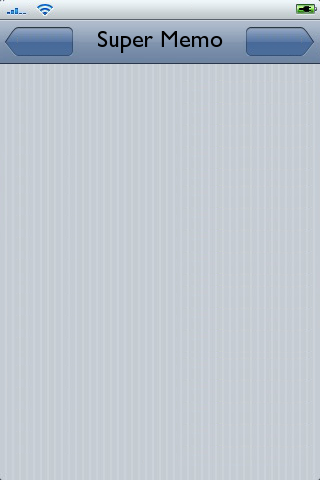
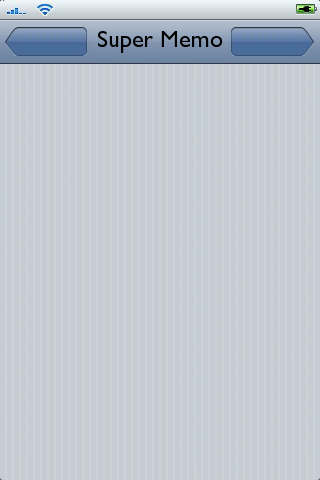
more mobile displays

Changed region(s): [[0.7188, 0.0312, 0.7812, 0.125], [0.2188, 0.0312, 0.2812, 0.125]]

diff --git a/public/stylesheets/base.css b/public/stylesheets/base.css
@@ -1,27 +1,27 @@
 /* === FLASH MESSAGES === */
 div#flash-notice {
-	
+position:absolute;	
 }
 
 div#flash-warning {
-	
+position:absolute;
 }
 
 div#flash-error {
-	
+position:absolute;
 }
 
 /* === ERROR MESSAGES === */
 div#errorExplanation {
-	
+
 }
 
 div#errorExplanation h2 {
-	
+
 }
 
 div#errorExplanation p {
-	
+
 }
 
 div#errorExplanation ul {
@@ -63,4 +63,6 @@ div.correction p.header {font-size:14px;padding-left:5px; padding-top:70px;}
 div.correction p.question {font-size:16px;padding-left:10px;}
 div.correction p.options {padding-left:12px; padding-top:58px;}
 div.correction .next {background:transparent none repeat scroll 0 0; border:medium none; color:#EEEEEE; font-size:18px; font-weight:bold; left:555px; position:absolute; top:44px;}
+div.correction .signup {background:transparent none repeat scroll 0 0; border:medium none; color:#EEEEEE; font-size:18px; font-weight:bold; left:540px; position:absolute; top:44px;}
+div.correction .login {background:transparent none repeat scroll 0 0; border:medium none; color:#EEEEEE; font-size:18px; font-weight:bold; left:546px; position:absolute; top:44px;}
 div.correction .logout { background:transparent none repeat scroll 0 0; border:medium none; color:#EEEEEE; font-size:18px; font-weight:bold; left:330px; position:absolute; text-decoration:none; top:44px;}

diff --git a/config/routes.rb b/config/routes.rb
@@ -23,7 +23,7 @@ ActionController::Routing::Routes.draw do |map|
   map.resource :session
   
   # Home Page
-  map.root :controller => 'sessions', :action => 'new'
+  map.root :controller => 'memo', :action => 'index'
 
   # Install the default routes as the lowest priority.
   map.connect ':controller/:action/:id'

diff --git a/app/controllers/sessions_controller.rb b/app/controllers/sessions_controller.rb
@@ -50,7 +50,6 @@ class SessionsController < ApplicationController
     new_cookie_flag = (params[:remember_me] == "1")
     handle_remember_cookie! new_cookie_flag
     redirect_back_or_default(root_path)
-    flash[:notice] = "Logged in successfully"
   end
 
   def note_failed_signin
